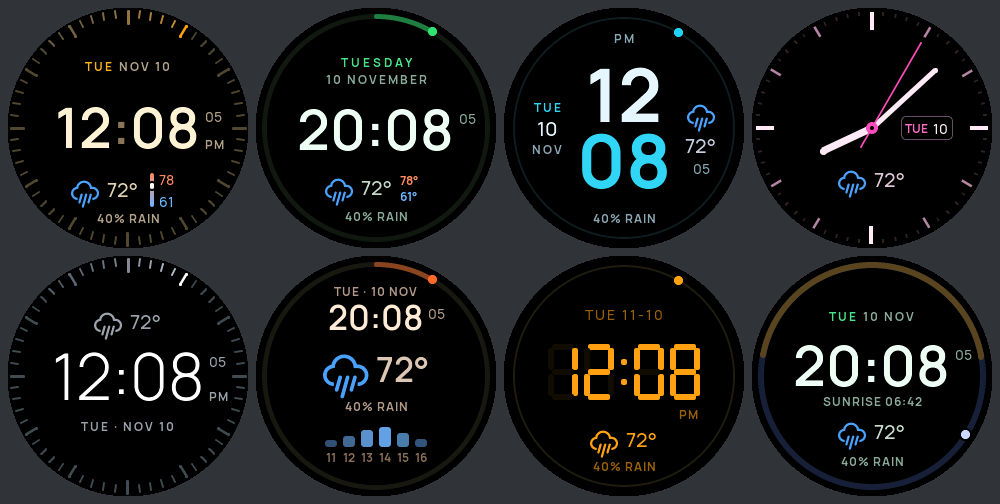
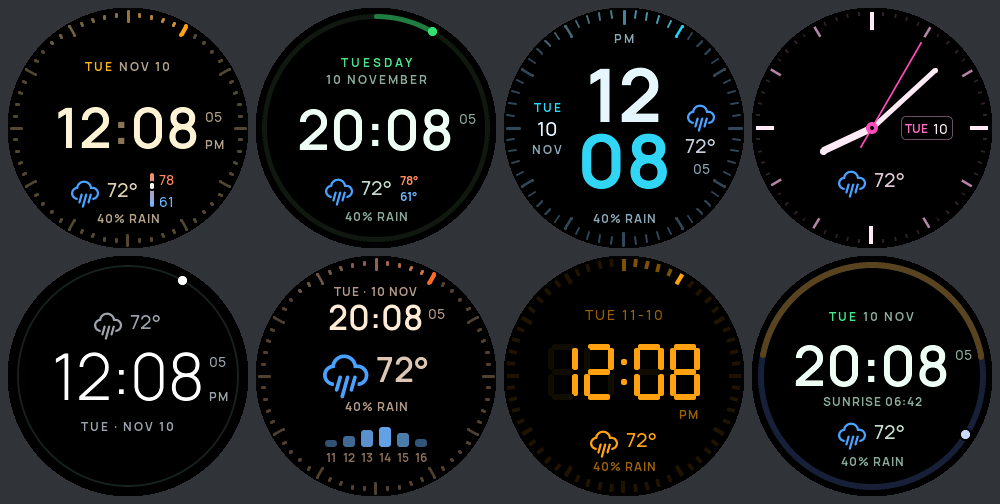
Remove seconds-ring option; BOOT double press cycles colour themes
Each face now always uses its default ring. A double press on BOOT
advances and saves the colour theme; single press (face change) is
reported after a 350 ms double-press window.

diff --git a/src/provisioning.cpp b/src/provisioning.cpp
@@ -65,6 +65,13 @@ void prov_save_face(uint8_t face) {
   p.end();
 }
 
+void prov_save_theme(uint8_t theme) {
+  Preferences p;
+  p.begin("clock", false);
+  p.putUChar("accent", theme);
+  p.end();
+}
+
 bool prov_load(ClockConfig &cfg) {
   Preferences p;
   p.begin("clock", false);
@@ -77,7 +84,6 @@ bool prov_load(ClockConfig &cfg) {
   cfg.dateFmt = p.getUChar("datefmt", 0) == 1 ? 1 : 0;
   cfg.accent = p.getUChar("accent", 0);
   cfg.face = p.getUChar("face", 0);
-  cfg.ring = p.getUChar("ring", 0);
   cfg.nightMode = p.getUChar("nmode", 0);
   cfg.nightStart = p.getUChar("nstart", 22) % 24;
   cfg.nightEnd = p.getUChar("nend", 7) % 24;
@@ -104,7 +110,6 @@ static void saveConfig(const ClockConfig &cfg) {
   p.putUChar("datefmt", cfg.dateFmt);
   p.putUChar("accent", cfg.accent);
   p.putUChar("face", cfg.face);
-  p.putUChar("ring", cfg.ring);
   p.putUChar("nmode", cfg.nightMode);
   p.putUChar("nstart", cfg.nightStart);
   p.putUChar("nend", cfg.nightEnd);
@@ -127,10 +132,11 @@ void prov_save_geo(const String &city, float lat, float lon) {
 // ---- BOOT button ------------------------------------------------------------
 
 static constexpr uint32_t SHORT_MIN_MS = 40, SHORT_MAX_MS = 1000;  // debounce .. clearly not a hold
+static constexpr uint32_t DOUBLE_MS = 350;  // second press must start within this of the first release
 
 ButtonEvent prov_button_event() {
-  static bool inited = false, down = false, fired = false;
-  static uint32_t since = 0;
+  static bool inited = false, down = false, fired = false, pending = false;
+  static uint32_t since = 0, released = 0;
   if (!inited) {
     pinMode(BOOT_PIN, INPUT_PULLUP);
     inited = true;
@@ -140,6 +146,7 @@ ButtonEvent prov_button_event() {
       down = true;
       fired = false;
       since = millis();
+      if (pending && since - released > DOUBLE_MS) pending = false;
     } else if (!fired && millis() - since >= LONG_PRESS_MS) {
       fired = true;  // once per hold
       return BTN_LONG;
@@ -147,7 +154,17 @@ ButtonEvent prov_button_event() {
   } else if (down) {
     down = false;
     uint32_t held = millis() - since;
-    if (!fired && held >= SHORT_MIN_MS && held <= SHORT_MAX_MS) return BTN_SHORT;
+    if (!fired && held >= SHORT_MIN_MS && held <= SHORT_MAX_MS) {
+      if (pending) {
+        pending = false;
+        return BTN_DOUBLE;
+      }
+      pending = true;
+      released = millis();
+    }
+  } else if (pending && millis() - released > DOUBLE_MS) {
+    pending = false;  // no second press: it was a single
+    return BTN_SHORT;
   }
   return BTN_NONE;
 }
@@ -219,9 +236,6 @@ static String buildForm(const String &netOptions, const ClockConfig &cur) {
   h += "<label>Colour theme</label><select name=accent>" +
        opt(0, cur.accent, "Red") + opt(1, cur.accent, "Amber") + opt(2, cur.accent, "Mint") + opt(3, cur.accent, "Ice") +
        opt(4, cur.accent, "Orchid") + opt(5, cur.accent, "Mono") + opt(6, cur.accent, "Ember") + "</select>";
-  h += "<label>Seconds ring <small>(Analog and Daylight keep their own)</small></label><select name=ring>" +
-       opt(0, cur.ring, "Face default") + opt(1, cur.ring, "Ticks") + opt(2, cur.ring, "Arc") + opt(3, cur.ring, "Dot") +
-       opt(4, cur.ring, "Off") + "</select>";
   h += "<label>Seconds as digits</label><select name=secs>" + opt(0, cur.seconds, "Off") + opt(1, cur.seconds, "On") + "</select>";
   h += "<label>Hourly chime <small>(comet lap on the hour)</small></label><select name=chime>" + opt(1, cur.chime, "On") +
        opt(0, cur.chime, "Off") + "</select>";
@@ -329,7 +343,6 @@ static String scanOptions() {
     n.dateFmt = server.arg("datefmt") == "1" ? 1 : 0;
     n.accent = (uint8_t)constrain(server.arg("accent").toInt(), 0, THEME_OPTIONS - 1);
     n.face = (uint8_t)constrain(server.arg("face").toInt(), 0, FACE_COUNT - 1);
-    n.ring = (uint8_t)constrain(server.arg("ring").toInt(), 0, 4);
     n.nightMode = (uint8_t)constrain(server.arg("nmode").toInt(), 0, 2);
     n.nightStart = (uint8_t)constrain(server.arg("nstart").toInt(), 0, 23);
     n.nightEnd = (uint8_t)constrain(server.arg("nend").toInt(), 0, 23);

diff --git a/src/provisioning.h b/src/provisioning.h
@@ -10,7 +10,6 @@ struct ClockConfig {
   uint8_t dateFmt = 0;   // 0 = "Fri Nov 6", 1 = "Fri 6 Nov"
   uint8_t accent = 0;    // theme preset: index into THEMES[] in ui.cpp (0 = red)
   uint8_t face = 0;      // clock face (enum Face in ui.h); also changed by a short BOOT press
-  uint8_t ring = 0;      // 0 = the face's own ring, 1 ticks, 2 arc, 3 dot, 4 off
   uint8_t nightMode = 0; // 0 = after sunset (needs a ZIP), 1 = fixed hours, 2 = never
   uint8_t nightStart = 22, nightEnd = 7;  // fixed hours: night from nightStart:00 to nightEnd:00
   uint8_t nightColor = 0;  // 0 red, 1 amber, 2 dim white
@@ -31,14 +30,17 @@ void prov_save_night(bool night);
 
 // Saves just the face (BOOT short press cycles it).
 void prov_save_face(uint8_t face);
+// Saves just the colour theme (BOOT double press cycles it).
+void prov_save_theme(uint8_t theme);
 
 // Loads saved settings into cfg. Returns true if a WiFi SSID has been saved.
 bool prov_load(ClockConfig &cfg);
 
 // Poll often. Reports the BOOT button (GPIO 9): BTN_SHORT once when a brief press is released,
-// BTN_LONG once when it has been held for ~3 s. (Holding BOOT *during reset* enters the ROM
+// BTN_DOUBLE once for two brief presses in quick succession (BTN_SHORT is reported only after the
+// double-press window passes), BTN_LONG once when it has been held for ~3 s. (Holding BOOT *during reset* enters the ROM
 // bootloader, so the press has to happen while the firmware is running.)
-enum ButtonEvent { BTN_NONE, BTN_SHORT, BTN_LONG };
+enum ButtonEvent { BTN_NONE, BTN_SHORT, BTN_DOUBLE, BTN_LONG };
 ButtonEvent prov_button_event();
 // Same poll, when only the long press matters (short presses are dropped).
 bool prov_button_long_press();

diff --git a/src/ui.cpp b/src/ui.cpp
@@ -354,14 +354,7 @@ static bool sunUp = true;
 
 static RingKind ringKind() {
   static const RingKind def[FACE_COUNT] = {K_DOTTICKS, K_ARC, K_TICKS, K_MARKERS, K_ORBIT, K_DOTTICKS, K_BLOCKS, K_DAYLIGHT};
-  if (opt.face == FACE_ANALOG || opt.face == FACE_DAYLIGHT) return def[opt.face];  // the ring is the face
-  switch (opt.ring) {
-    case 1: return K_TICKS;
-    case 2: return K_ARC;
-    case 3: return K_ORBIT;
-    case 4: return K_NONE;
-    default: return def[opt.face];
-  }
+  return def[opt.face];
 }
 static bool tickKind() { return rk == K_TICKS || rk == K_DOTTICKS || rk == K_BLOCKS; }  // has a comet (splash, chime)
 
@@ -1586,10 +1579,16 @@ void ui_set_options(const UiOptions &o) {
   if (opt.face >= FACE_COUNT) opt.face = 0;
   if (opt.theme >= THEME_COUNT) opt.theme = 0;
   if (opt.nightColor >= NIGHT_COUNT) opt.nightColor = 0;
-  if (opt.ring > 4) opt.ring = 0;
   opt.dateFmt = opt.dateFmt == 1 ? 1 : 0;
   if (faceRoot) rebuild();
 }
+
+void ui_set_theme(int theme) {
+  opt.theme = (uint8_t)(theme >= 0 && theme < THEME_COUNT ? theme : 0);
+  if (faceRoot) rebuild();
+}
+
+int ui_theme_count() { return THEME_COUNT; }
 
 void ui_set_face(int face) {
   opt.face = (uint8_t)(face >= 0 && face < FACE_COUNT ? face : 0);

diff --git a/src/ui.h b/src/ui.h
@@ -34,7 +34,6 @@ struct UiOptions {
   uint8_t dateFmt = 0;     // 0 = "Nov 6", 1 = "6 Nov"
   uint8_t theme = 0;       // index into THEMES[] in ui.cpp (0 red, 1 amber, 2 mint, 3 ice, 4 orchid, 5 mono, 6 ember)
   uint8_t face = 0;        // Face
-  uint8_t ring = 0;        // 0 = the face's own ring, 1 ticks, 2 arc, 3 dot, 4 off (analog and daylight ignore it)
   uint8_t nightColor = 0;  // 0 red, 1 amber, 2 dim white
   bool chime = true;       // comet lap around the ring on the hour
   bool detail = true;      // "40% RAIN" / "FEELS 65" line
@@ -44,6 +43,8 @@ struct UiOptions {
 void ui_set_options(const UiOptions &o);
 // Switches the face in place (BOOT short press); everything shown is carried over.
 void ui_set_face(int face);
+void ui_set_theme(int theme);  // colour theme index (BOOT double press cycles it)
+int ui_theme_count();
 
 // Boot splash: a comet sweeps once around the seconds ring (~1 s, blocking).
 void ui_boot_splash();

diff --git a/src/main.cpp b/src/main.cpp
@@ -48,7 +48,6 @@ void setup() {
   o.dateFmt = cfg.dateFmt;
   o.theme = cfg.accent;
   o.face = cfg.face;
-  o.ring = cfg.ring;
   o.nightColor = cfg.nightColor;
   o.chime = cfg.chime;
   o.detail = cfg.detail;
@@ -117,6 +116,11 @@ void loop() {
       g_cfg.face = (g_cfg.face + 1) % FACE_COUNT;
       ui_set_face(g_cfg.face);
       prov_save_face(g_cfg.face);
+      break;
+    case BTN_DOUBLE:  // next colour theme; saved too
+      g_cfg.accent = (g_cfg.accent + 1) % ui_theme_count();
+      ui_set_theme(g_cfg.accent);
+      prov_save_theme(g_cfg.accent);
       break;
     default: break;
   }

diff --git a/docs/tools/sim/sim.cpp b/docs/tools/sim/sim.cpp
@@ -64,7 +64,7 @@ int main(int argc, char **argv) {
   }
   // 2. options: seconds digits + 24 h + other themes / rings
   for (int f = 0; f < FACE_COUNT; f++) {
-    UiOptions v; v.face = f; v.seconds = true; v.theme = 1 + f % 6; v.h24 = f % 2; v.dateFmt = f % 2; v.ring = (f % 4) + 1;
+    UiOptions v; v.face = f; v.seconds = true; v.theme = 1 + f % 6; v.h24 = f % 2; v.dateFmt = f % 2;
     ui_set_options(v);
     t = mk(f % 2 ? 20 : 12, 8, 5); ui_update(t);
     run(1500);

diff --git a/CLAUDE.md b/CLAUDE.md
@@ -36,9 +36,9 @@ Docs for people and agents: `docs/CUSTOMIZING.md` (where to change what), `docs/
 - **Weather extras** (all in `ui.cpp` unless noted): a 14 pt detail line under the weather row (`ui_set_weather_detail`, y +90) shows `NN% rain` (max `precipitation_probability` over the next 6 h, shown at >= 30 %) or else `Feels NN°` (`apparent_temperature`, when it differs by >= 5 °F / 3 °C); text chosen by `weatherDetail()` in `main.cpp`. Weather older than 30 min (`fetchedAt`, `STALE_MS`) dims the row + detail to ~35 % (`ui_set_weather_stale`). A slashed WiFi glyph above the date (`ui_set_offline`, y -91) fades in after 10 s offline. Rain/snow codes (`weather_fall()`) make 4 particles (children of the icon) drift down for ~4 s after each update (`startFall`, day only). **Hourly chime**: at :00 a non-blocking comet lap runs around the ring (`startChime`/`chimeTick`, ~1.2 s, day only; `ui_update` leaves the ring alone while it runs).
 - **Seconds ring**: 60 `lv_line` ticks created in `createTicks()`; only changed ticks are restyled each second. Layout constants (ring radius, label y-offsets of ±58) were tuned by eye on the real display.
 - **Clock face details**: the seconds ring has a "comet tail" (the 12 ticks behind the current second fade from soft blue-grey (colour only, same width as other ticks; squared falloff) down to a deliberately dim base grey; it was white/15 ticks and read too bright; `TAIL_LEN` in `styleTick`; the tail wraps past 12 o'clock and the previous minute's lit ticks dissolve to dim over the first `TAIL_LEN` seconds, so there is no hard reset at :00; and `ui_update` restyles that many ticks back each second). The time is split into hours / `:` / minutes labels (the colon used to blink; removed as distracting next to the ring) plus a small AM/PM; AM/PM is a separate label aligned to the right of the minutes (`lv_obj_align_to`, offset tuned by eye) so it does not shift the digits off-centre.
-- **Setup-page display options** (`UiOptions` -> `ui_set_options()`; NVS `h24`, `datefmt`, `face`, `accent` (theme index into `THEMES[]`; first six match the old accent order), `ring`, `secs`, `chime`, `detail`, `nmode`/`nstart`/`nend`, `ncolor`). `main.cpp` loads config *before* the splash so options apply from the first frame. Night colours are one base colour (`NIGHTS[]`) at varying brightness via `nightC(pct)`; never hard-code a night hex.
-- **Faces** (`enum Face` in `ui.h`: Polished (default), Arc, Stacked, Analog, Zen, Forecast, Retro, Daylight). All face objects live under `faceRoot` (`ringBox` + `content`); `rebuild()` deletes and recreates them when the face/options change and refills from cached state (`lastTm`, `wx`, `detailText`, stale/offline/loading, rain hours, sunrise/sunset). A face creates only what it uses, so **object pointers may be null**: go through `tc`/`bgc`/`setText`/`setHidden`/`swapText` or check. `content` stays hidden until the first `ui_update()` so boot animations own the centre. Anything animating a non-object variable or using an `lv_timer` (chime, `rangeFrac`, `orbitA`) must be stopped in `rebuild()`. Ring kinds (`RingKind`, chosen by `ringKind()` from face default + `ring` option; Analog/Daylight ignore the option): ticks, dot-ticks, blocks, analog markers, arc (`lv_arc`, value animated), orbit dot, daylight dial. Splash and chime only run on tick kinds. Weather messages without an icon go to the detail line on Stacked/Forecast (`msgInDetail()`).
-- **BOOT button** (`prov_button_event()`): short press (40 ms to 1 s, on release) cycles the face and saves `face`; 3 s hold enters setup. `prov_button_long_press()` wraps it for the boot waits.
+- **Setup-page display options** (`UiOptions` -> `ui_set_options()`; NVS `h24`, `datefmt`, `face`, `accent` (theme index into `THEMES[]`; first six match the old accent order), `secs`, `chime`, `detail`, `nmode`/`nstart`/`nend`, `ncolor`). `main.cpp` loads config *before* the splash so options apply from the first frame. Night colours are one base colour (`NIGHTS[]`) at varying brightness via `nightC(pct)`; never hard-code a night hex.
+- **Faces** (`enum Face` in `ui.h`: Polished (default), Arc, Stacked, Analog, Zen, Forecast, Retro, Daylight). All face objects live under `faceRoot` (`ringBox` + `content`); `rebuild()` deletes and recreates them when the face/options change and refills from cached state (`lastTm`, `wx`, `detailText`, stale/offline/loading, rain hours, sunrise/sunset). A face creates only what it uses, so **object pointers may be null**: go through `tc`/`bgc`/`setText`/`setHidden`/`swapText` or check. `content` stays hidden until the first `ui_update()` so boot animations own the centre. Anything animating a non-object variable or using an `lv_timer` (chime, `rangeFrac`, `orbitA`) must be stopped in `rebuild()`. Ring kinds (`RingKind`, always the face's default via `ringKind()`; no user option): ticks, dot-ticks, blocks, analog markers, arc (`lv_arc`, value animated), orbit dot, daylight dial. Splash and chime only run on tick kinds. Weather messages without an icon go to the detail line on Stacked/Forecast (`msgInDetail()`).
+- **BOOT button** (`prov_button_event()`): short press (40 ms to 1 s, on release; reported after a 350 ms double-press window) cycles the face and saves `face`, double press cycles the colour theme and saves `accent`; 3 s hold enters setup. `prov_button_long_press()` wraps it for the boot waits.
 - **Night mode source** (`nmode`): 0 `is_day` from weather, 1 fixed hours (`scheduledNight()` in `main.cpp`), 2 never.
 - **Host renders**: `sh docs/tools/sim/render.sh` compiles `ui.cpp` with a stub `Arduino.h` against `.pio/libdeps/.../lvgl` (run `pio run` once first) and writes `docs/faces/*.png`. Use it to check layout changes before flashing; rerun it when faces change. `docs/states/*.svg` (hand-drawn by `gen_states.py`) still show the pre-faces look of the default face.
 - **Minute transition**: when the minute changes only the changed labels (`swapText()`) fade out, swap, and fade back in (160 + 260 ms). The time digits crossfade in place; the weather labels also rise 6 px (`riseFor()`). Vertical movement on the digits made the whole time look like it bounced. The first draw is instant. Weather updates use the same `swapText()` fade for the icon, temperature and high/low (the icon's colour is applied when its glyph swaps; content appearing after the skeleton fades in). **Boot splash** (`ui_boot_splash()`): a comet runs once around the ring (~1 s, blocking, calls `lv_timer_handler()`).

diff --git a/docs/CUSTOMIZING.md b/docs/CUSTOMIZING.md
@@ -21,7 +21,7 @@ Rules of thumb:
 
 All in `ui_update()` in `src/ui.cpp`.
 
-**12/24-hour time, date order, face, theme, ring, seconds digits, chime, detail line, night options** — these are setup-page settings (NVS keys `h24`, `datefmt`, `face`, `accent` (theme), `ring`, `secs`, `chime`, `detail`, `nmode`, `nstart`, `nend`, `ncolor`), passed to `ui_set_options()` as a `UiOptions` at boot. To add a theme, append a row to `THEMES[]` in `src/ui.cpp`, add an `<option>` in `buildForm()` and bump `THEME_OPTIONS` in `src/provisioning.cpp`.
+**12/24-hour time, date order, face, theme, seconds digits, chime, detail line, night options** — these are setup-page settings (NVS keys `h24`, `datefmt`, `face`, `accent` (theme), `secs`, `chime`, `detail`, `nmode`, `nstart`, `nend`, `ncolor`), passed to `ui_set_options()` as a `UiOptions` at boot. To add a theme, append a row to `THEMES[]` in `src/ui.cpp`, add an `<option>` in `buildForm()` and bump `THEME_OPTIONS` in `src/provisioning.cpp`.
 
 **Date format details** — the date is two labels side by side: the weekday in red (`dayLabel`, from `strftime("%a")`) and `Nov 6` in gray (`dateLabel`, built from `strftime("%b")` and `t.tm_mday`; the day is printed with `%d` through `snprintf` rather than `strftime` so single digits have no leading zero). `datefmt` 0/1 picks the order; for other wording, change those lines in `ui_update()`; to show the weekday in the same color as the rest, give both labels the same color. The date uses a 20 pt font; keep it under about 14 characters so it fits inside the ring.
 
@@ -69,7 +69,7 @@ Ring kinds (`RingKind`): `K_TICKS`, `K_DOTTICKS` (default face), `K_BLOCKS` (ret
 Radii, lengths and widths per ring kind are in `tickGeo()` in `src/ui.cpp`.
 
 - **Single moving dot instead of a filling trail:** in `styleTick()`, make the elapsed (`i < sec`) color the same as the upcoming color.
-- **Remove the ring:** choose *Seconds ring: Off* on the setup page, or make `ringKind()` return `K_NONE`.
+- **Remove the ring:** make `ringKind()` return `K_NONE` (each face uses its own default ring; there is no setup-page option).
 
 ## Setup screen and behavior
 

diff --git a/README.md b/README.md
@@ -75,7 +75,7 @@ Settings are stored in flash and survive reboots and reflashing. To change them 
 
 <p align="center"><img src="docs/faces/faces.png" alt="The eight clock faces" width="100%"></p>
 
-Top row: Polished, Arc, Stacked, Analog. Bottom row: Zen, Forecast, Retro LCD, Daylight. **Tap BOOT** to step through them (the choice is saved), or pick one on the setup page. The setup page also has colour themes, the seconds-ring style (ticks, arc, dot, off), seconds as digits, the hourly chime and the weather detail line. Night versions and option examples: [night](docs/faces/night.png), [options](docs/faces/options.png), [states](docs/faces/states.png). These images are rendered from the real UI code by `sh docs/tools/sim/render.sh`.
+Top row: Polished, Arc, Stacked, Analog. Bottom row: Zen, Forecast, Retro LCD, Daylight. **Tap BOOT** to step through them, **double-tap** to cycle colour themes (both saved), or pick one on the setup page. The setup page also has colour themes, seconds as digits, the hourly chime and the weather detail line. Night versions and option examples: [night](docs/faces/night.png), [options](docs/faces/options.png), [states](docs/faces/states.png). These images are rendered from the real UI code by `sh docs/tools/sim/render.sh`.
 
 ## Make it yours
 
